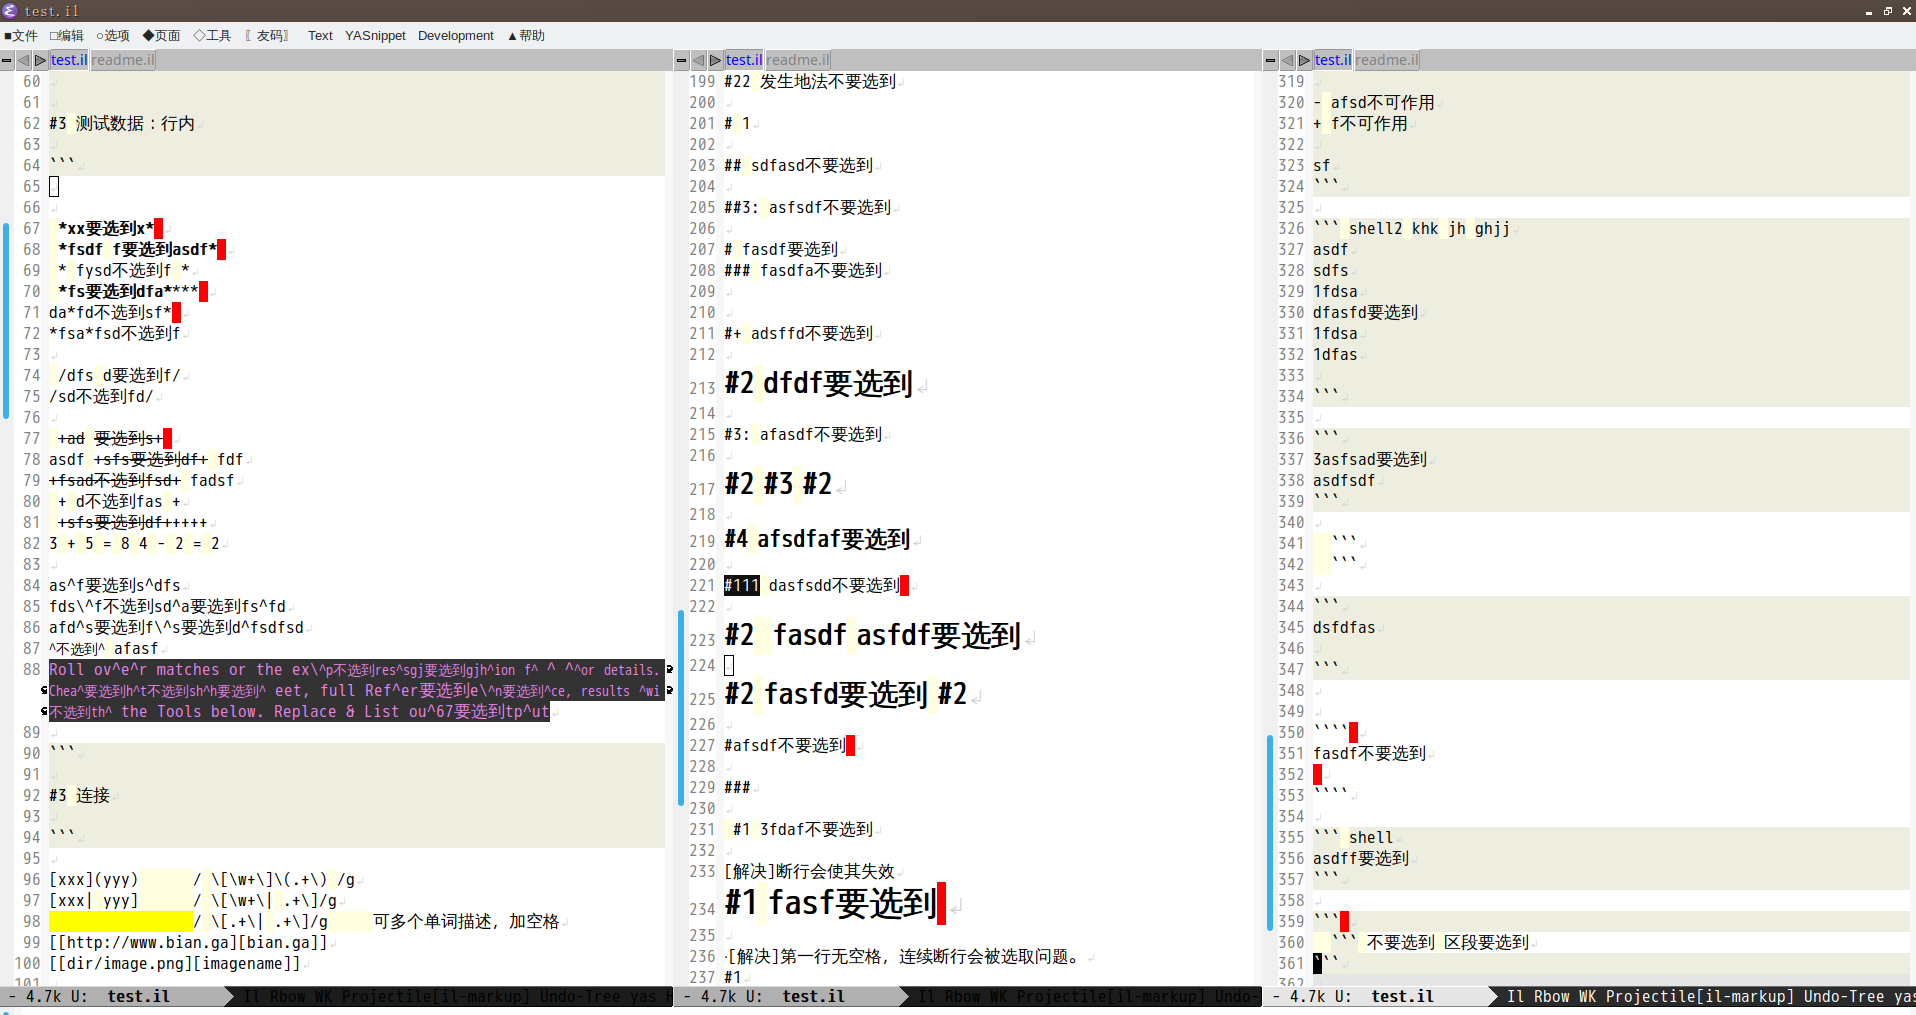
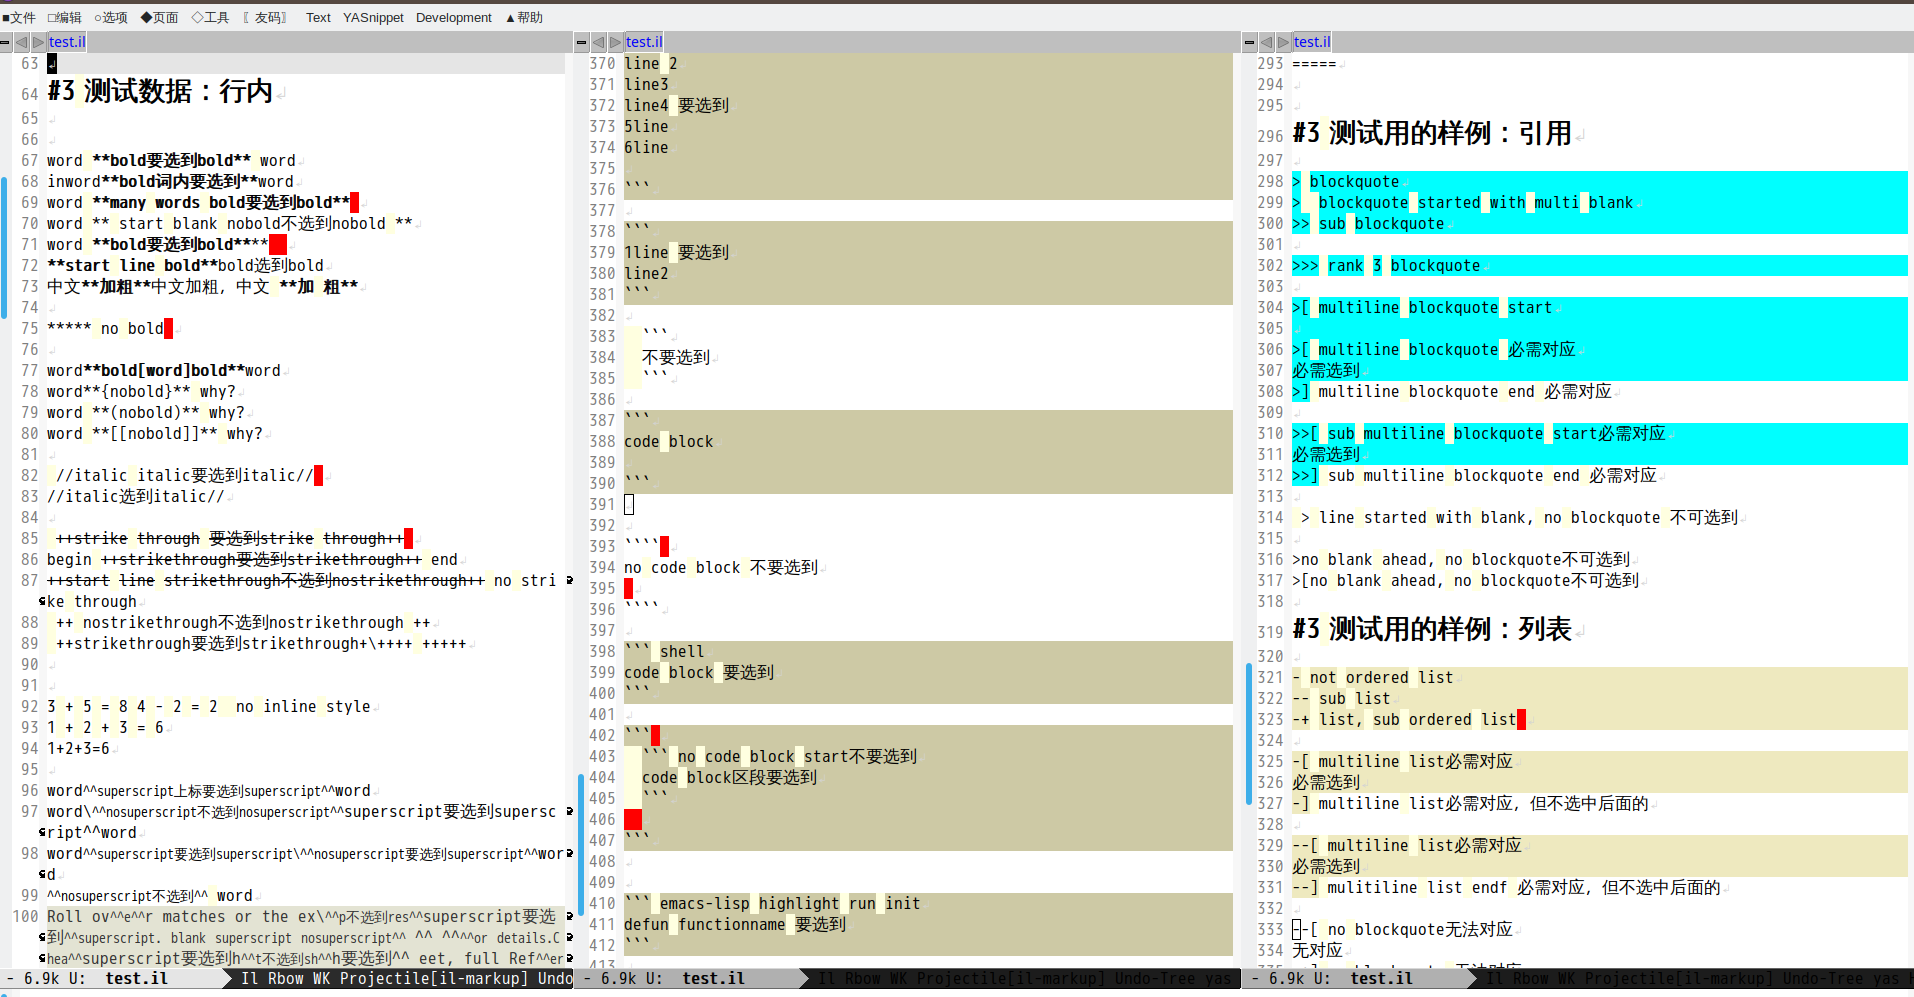
行内改为双符号

diff --git a/docs/2018-06-22-友码文设计初步定案.md b/docs/2018-06-22-友码文设计初步定案.md
@@ -1,19 +1,19 @@
 ---
 layout: post
 title: "爱码文设计草案"
-date: 2014-11-05 13:29:59 +0800
+date: 2018-06-22 04:22:23 +0800
 categories: 说明
 tags: [爱码文, 语言设计, 文本]
-lastmod: 2018-06-18
+lastmod: 2018-06-22
 ---
 
-说明：这是爱码文的设计草案。
+说明：这是爱码文的设计初步定案。
 
 
 状态含义： 待完成设计  ●完成 ■待测试 ◆被认领开发中 ★计划
 
 
-格式后缀：il
+格式后缀：il（i markup language）
 可选：iml（iml is markup language） imt it(it is text 但it已有 脉冲跟踪系统音乐模块文件 使用)
 
 
@@ -31,6 +31,7 @@ lastmod: 2018-06-18
 - 要方便的可加扩展，融合了mediawiki的表格语法。
 
 
+
 关于嵌入html代码：
 直接嵌入html，仅当普通文本，输出html后会被转码，想要原样输出，需要手动 把例外字符 转义。
 如果是在 code里嵌入，不运行。
@@ -38,8 +39,40 @@ lastmod: 2018-06-18
 
 其他代码类似
 
+
+## 初步定案决定：
+
+- 全局使用 []符号，行内代码2对中括号 [[]]，区块代码3对中括号 [[[]]] ``[ ``]
+- 行内 使用双符号，不依赖空格，原因：英文常用空格隔开词汇，某个词段要加粗，使用空格区分的话，会把1个单词拆分成3个。中文无此问题。数学公式里，经常会出现多个+-=套用
+缺点：常用4个标识累赘了，编辑器不带自动闭合会让人烦
+
+
 ## 行内 （内建实现功能）
 
+常用的：
+- 加粗 `**加粗**`  输出 `<b>加粗</b>`
+- 斜体 `//斜体//`  输出 `<i>斜体</i>`
+- 删除线 `++删除线++`  输出 `<s>删除线</s>`
+- 下划线 `__下划线__`  输出 `<u>下划线</u>`
+- 上标下标 ` ^^上标^^ ~~下标~~ `   输出 `<sup>上标</sup><sub>下标</sub>`
+- 代码  " ``代码`` "    输出 `<code>代码</code>` 
+- 行内嵌入其他代码，比如html，当普通文本处理
+- 加标志：用于各种自定义  ` [mark| xxx] ` 比如 `<mark></mark>`
+- 转义 ` \ `
+
+参考：
+- markdown orgmode wiki 需要2个符号标识
+- textile 的 `[*文字*]` 需要4个符号标识，另一种方式是左右各一个空格 ` *文字* `
+- asciidoc的 ` [效果定义]*文字* ` 比较通用，但需要4个符号标识，可用于自定义样式
+- wiki的 代码 {{ }} 代码块 {{{}}}
+- restruedtext的  ` \* 文字*\ ` 需要4个符号标识
+
+
+
+可选设定：
+
+``` shell
+左右空格+单符号版
 - 加粗 ` *加粗* `  输出 `<b>加粗</b>`
 - 斜体 ` /斜体/ `  输出 `<i>斜体</i>`
 - 删除线 ` +删除线+ `  输出 `<s>删除线</s>`
@@ -47,20 +80,10 @@ lastmod: 2018-06-18
 - 上标下标 ` ^上标^ ～下标～ `   输出 `<sup>上标</sup><sub>下标</sub>`
 - 代码  ` \`代码\` `  输出 `<code>代码</code>`
 - 行内嵌入其他代码，比如html
-- 加标志：用于各种自定义  ` {mark| xxx} ` 比如 `<mark></mark>`
+- 加标志：用于各种自定义  ` [mark| xxx] ` 比如 `<mark></mark>`
 - 转义 ` \ `
 
-参考：常用4个标识累赘了。
-- markdown orgmode wiki 需要2个符号标识
-- textile 的 `[*文字*]` 需要4个符号标识，另一种方式是左右各一个空格 ` *文字* `
-- restruedtext的  ` \* 文字*\ ` 需要4个符号标识
-- asciidoc的 ` [效果定义]*文字* ` 比较通用，但需要4个符号标识，可用于自定义样式
-- wiki的 代码 {{ }} 代码块 {{{}}}
-
-
-可选设定：
-```
-左右无空格版
+左右可无空格版
 [*xxx*]
 [/xxx/]
 [+xxx+]
@@ -76,8 +99,10 @@ lastmod: 2018-06-18
 [/ : ]
 [` : ]
 
-带自动闭合，输入3次，不带5次
+带自动闭合，输入4次，不带5次
 {*}[xxx]
+带自动闭合，输入3次，不带5次
+[*[xxx]]
 {*[xxx]}
 [*[xxx]]
 
@@ -354,6 +379,8 @@ textile 行首 `bq. bq..  p.  ` ，比较灵活。
 
 可选：
 ```
+` 缺点是不好认，某些字体容易和 '混淆。
+
 [|类名:
 |]
 
@@ -364,9 +391,18 @@ textile 行首 `bq. bq..  p.  ` ，比较灵活。
 优点是 全局统一用  [] 作为起始和终点标志
 [[[ 
 ]]]
+
+优点是 行内插入效果的时候，都是要按shift键
+缺点是 符号形状复杂，视觉干扰大
+{{{ 
+}}}
+
+不考虑：
+<> 常用于数学，代码
+() 因为行内常用
+
 ```
 
-参考 wiki语法 {{{ }}}
 
 ### 代码块 （默认内建，但插件实现更多功能）
 输出`<pre></pre>`
@@ -385,6 +421,12 @@ textile 行首 `bq. bq..  p.  ` ，比较灵活。
 - markdown gfm 的 ` ``` ~~~ `，orgmode的 `#+BEGIN_SRC elisp`
 - textile 的行首 `bc.  p.  ` 或  ` pre. p. `
 - wiki `{{{ }}}`
+
+
+几个问题解决：
+- 代码里的引注（常用于代码解读），可设置特定符号，放于行首或行末。
+- 若代码里也有 行首为 il的结构性标识符，尤其是和 代码块等同的，可以行首空一格，从而不影响源码的原样保持，又避免被误识别。——不建议用 转义符例外，因为影响到源码的原样保持。
+
 
 
 ### [TODO]表格（插件实现）
@@ -456,7 +498,7 @@ asciidoc
 沿用代码块设定，调用相应的插件实现。
 
 ```
-\``` graphv
+\``` graphviz
 绘图表达式
 \`\`\`
 ```

diff --git a/readme.md b/readme.md
@@ -8,12 +8,12 @@
 
 + 区块全部无行首缩进
 + 可扩展：
-++ 行内和区块
-++ 可方便添加扩展
+  + 行内和区块
+  + 可方便添加扩展
 + 规则统一：
-++ 起始和终点符号一致
-++ 自定义行内样式和链接规则统一
-++ 可方便添加类名和识别名
+  + 起始和终点符号一致
+  + 自定义行内样式和链接规则统一
+  + 可方便添加类名和识别名
 
 
 ## 已经稳定的规则
@@ -44,14 +44,13 @@
 
 效果 见 截图，实测效果可参见 test文件夹
 
-![标志](/docs/images/screen1.png)
+![截图](/docs/images/screen1.png)
 
 
 
 ## 探索中的规则
 
-参见 [设计草案](/docs/2014-11-05-友码文设计草案.md)
-
+参见 [设计草案](/docs/2018-06-22-友码文设计初步定案.md)
 
 
 ## 待办任务
@@ -78,5 +77,7 @@
 
 + 20141105 开始规划
 + 20180617 端午前夕，初步完成emacs il-mode
++ 20180622 规则初步定案
+
 
 
